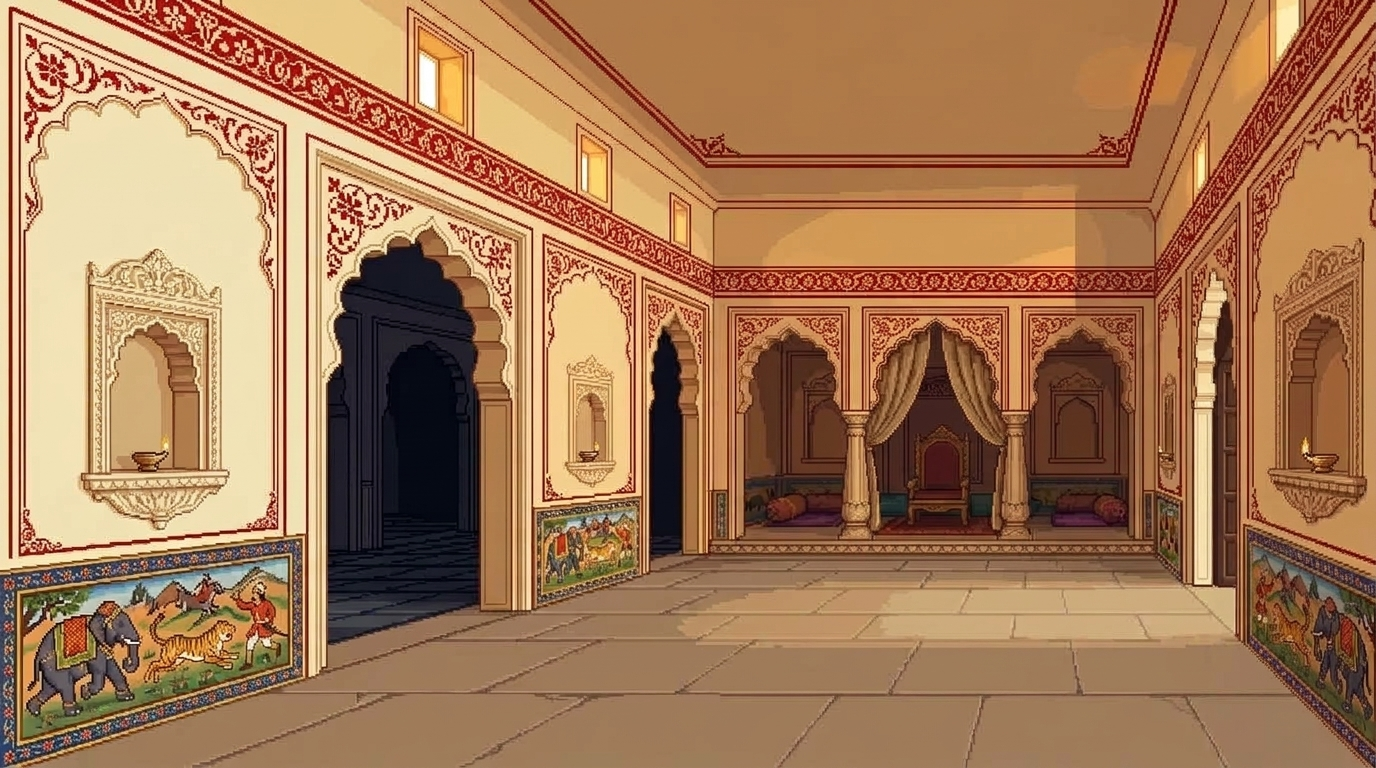
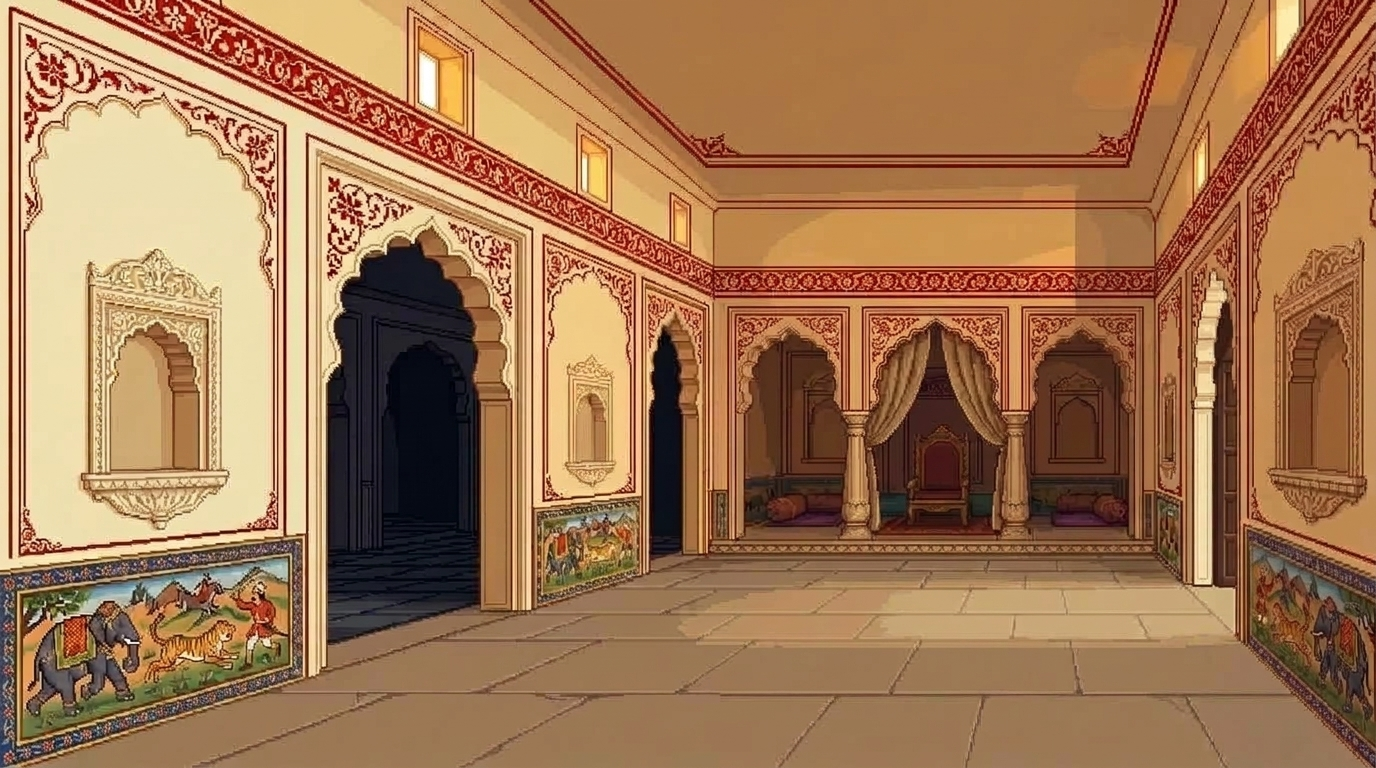
lamps fix

diff --git a/frontend/app/play/rajasthan/components/BadalMahalLampGame.tsx b/frontend/app/play/rajasthan/components/BadalMahalLampGame.tsx
@@ -75,7 +75,12 @@ export default function BadalMahalLampGame({
   // Handler for lighting a lamp
   const handleLightLamp = useCallback(
     async (lamp: LampDef) => {
-      if (litLampIds.includes(lamp.id)) return;
+      if (litLampIds.includes(lamp.id)) {
+        // Toggle OFF
+        const nextLit = litLampIds.filter((id) => id !== lamp.id);
+        saveLitLamps(nextLit);
+        return;
+      }
 
       soundFx.playClueChime();
       const nextLit = [...litLampIds, lamp.id];
@@ -168,7 +173,7 @@ export default function BadalMahalLampGame({
                 top: `${lamp.renderY}%`,
                 width: `${lamp.renderWidth}%`,
               }}
-              onClick={() => !isLit && handleLightLamp(lamp)}
+              onClick={() => handleLightLamp(lamp)}
               title={isLit ? `${lamp.name} (Lit)` : `${lamp.name} (Unlit - Press E to light)`}
             >
               {/* eslint-disable-next-line @next/next/no-img-element */}

diff --git a/frontend/app/play/rajasthan/data/badalMahalData.ts b/frontend/app/play/rajasthan/data/badalMahalData.ts
@@ -22,7 +22,7 @@ export const BADAL_MAHAL_LAMPS: LampDef[] = [
     x: 16.0,
     y: 72.0,
     renderX: 11.2,
-    renderY: 58.0,
+    renderY: 60.8,
     renderWidth: 4.4,
     radius: 12.0,
     featureName: "Left Ornate Wall Alcove",
@@ -33,8 +33,8 @@ export const BADAL_MAHAL_LAMPS: LampDef[] = [
     x: 43.0,
     y: 72.0,
     renderX: 42.8,
-    renderY: 56.5,
-    renderWidth: 3.8,
+    renderY: 59.0,
+    renderWidth: 3.2,
     radius: 12.0,
     featureName: "Center Arched Wall Niche",
   },
@@ -44,7 +44,7 @@ export const BADAL_MAHAL_LAMPS: LampDef[] = [
     x: 84.0,
     y: 72.0,
     renderX: 95.8,
-    renderY: 57.0,
+    renderY: 60.0,
     renderWidth: 4.4,
     radius: 14.0,
     featureName: "Right Carved Wall Bracket",
